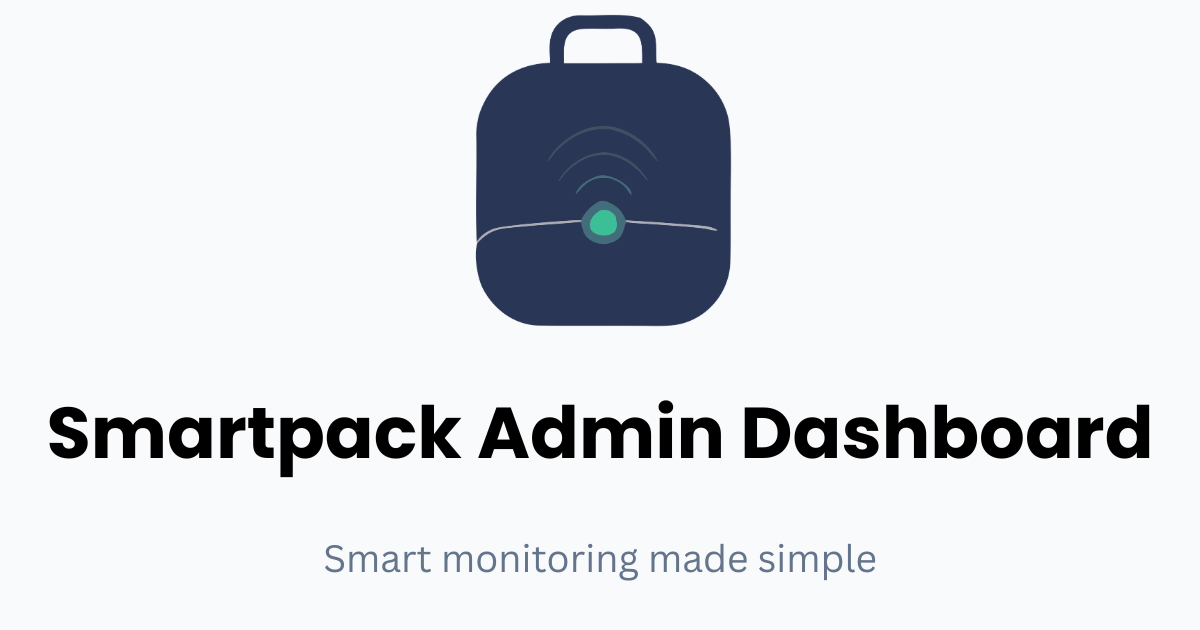
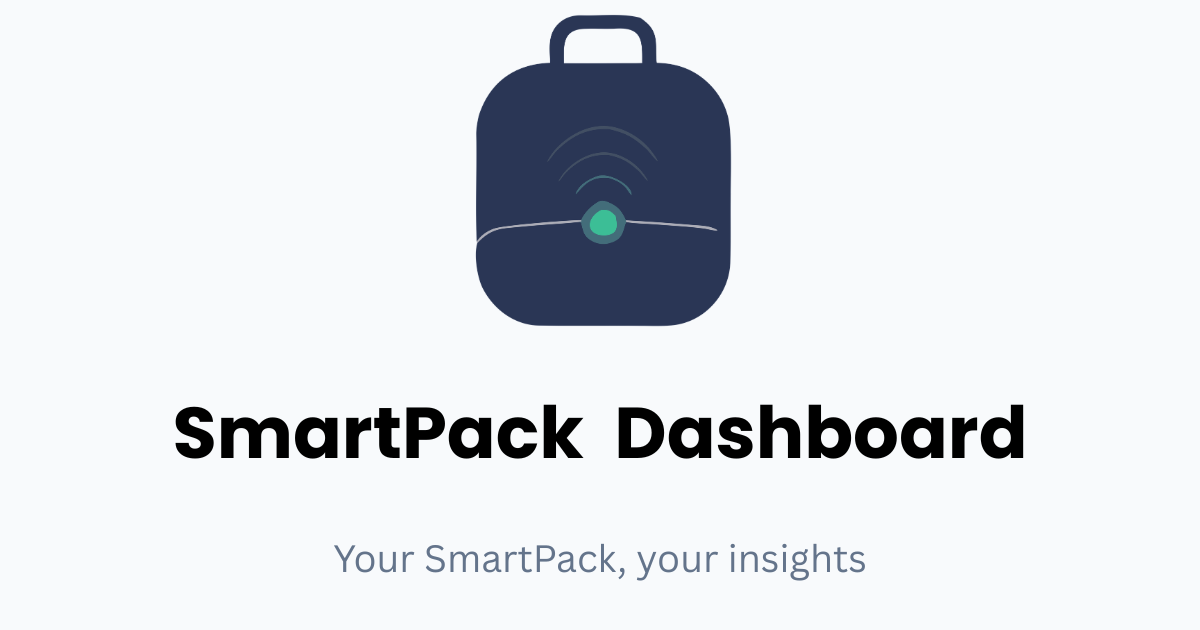
feat(meta): personalize customer dashboard branding
Update page and social metadata for the customer-facing dashboard.

- Replace admin dashboard title and descriptions with customer-focused content

- Update Open Graph and Twitter metadata

- Point canonical and Open Graph URLs to smartpack.razaoul.co.ke

- Update structured data for SmartPack Dashboard

- Update noscript message and page title

- Replace SmartPack OG image with customer dashboard branding

Changed region(s): [[0.0308, 0.6333, 0.9558, 0.754], [0.2775, 0.8444, 0.74, 0.9349]]

diff --git a/index.html b/index.html
@@ -8,18 +8,18 @@
 
     <meta
       name="description"
-      content="SmartPack Admin Dashboard – Administrative interface for managing SmartPack devices, users, and monitoring data."
+      content="SmartPack Dashboard – Monitor your SmartPack, track schoolbag load and posture, view insights, and stay informed with real-time alerts."
     />
 
     <meta name="author" content="Trevor Gituru" />
 
     <!-- Open Graph -->
-    <meta property="og:title" content="SmartPack Admin Dashboard" />
+    <meta property="og:title" content="SmartPack Dashboard" />
     <meta
       property="og:description"
-      content="SmartPack Admin Dashboard – Administrative interface for managing SmartPack devices, users, and monitoring data."
+      content="Monitor your SmartPack, track schoolbag load and posture, view insights, and stay informed with real-time alerts."
     />
-    <meta property="og:url" content="https://admin.smartpack.razaoul.co.ke/" />
+    <meta property="og:url" content="https://smartpack.razaoul.co.ke/" />
     <meta property="og:type" content="website" />
     <meta property="og:image" content="/smartpack-og.png" />
     <meta property="og:image:width" content="1200" />
@@ -27,15 +27,15 @@
 
     <!-- Twitter / X -->
     <meta name="twitter:card" content="summary_large_image" />
-    <meta name="twitter:title" content="SmartPack Admin Dashboard" />
+    <meta name="twitter:title" content="SmartPack Dashboard" />
     <meta
       name="twitter:description"
-      content="SmartPack Admin Dashboard – Administrative interface for managing SmartPack devices, users, and monitoring data."
+      content="Monitor your SmartPack, track schoolbag load and posture, view insights, and stay informed with real-time alerts."
     />
     <meta name="twitter:image" content="/smartpack-og.png" />
 
     <!-- Canonical URL -->
-    <link rel="canonical" href="https://admin.smartpack.razaoul.co.ke/" />
+    <link rel="canonical" href="https://smartpack.razaoul.co.ke/" />
 
     <!-- Favicon -->
     <link rel="icon" type="image/svg+xml" href="/favicon.svg" />
@@ -45,15 +45,15 @@
       {
         "@context": "https://schema.org",
         "@type": "WebSite",
-        "name": "SmartPack Admin Dashboard",
-        "url": "https://admin.smartpack.razaoul.co.ke/",
-        "description": "SmartPack Admin Dashboard – Administrative interface for managing SmartPack devices, users, and monitoring data.",
+        "name": "SmartPack Dashboard",
+        "url": "https://smartpack.razaoul.co.ke/",
+        "description": "SmartPack Dashboard for monitoring schoolbag load, posture, device status, insights, and alerts.",
         "contributor": [
           {
             "@type": "Person",
             "name": "Trevor Gituru",
             "jobTitle": "Full Stack Developer",
-            "description": "Contributed to the development and build process of the SmartPack Admin Dashboard.",
+            "description": "Contributed to the development and build process of the SmartPack Dashboard.",
             "alumniOf": {
               "@type": "CollegeOrUniversity",
               "name": "Jomo Kenyatta University of Agriculture and Technology (JKUAT)"
@@ -64,14 +64,14 @@
       }
     </script>
 
-    <title>SmartPack Admin Dashboard</title>
+    <title>SmartPack Dashboard</title>
   </head>
 
   <body>
     <noscript>
       <strong>
-        We're sorry, but SmartPack Admin Dashboard requires JavaScript to work properly. Please
-        enable JavaScript to continue.
+        We're sorry, but SmartPack Dashboard requires JavaScript to work properly. Please enable
+        JavaScript to continue.
       </strong>
     </noscript>
 
